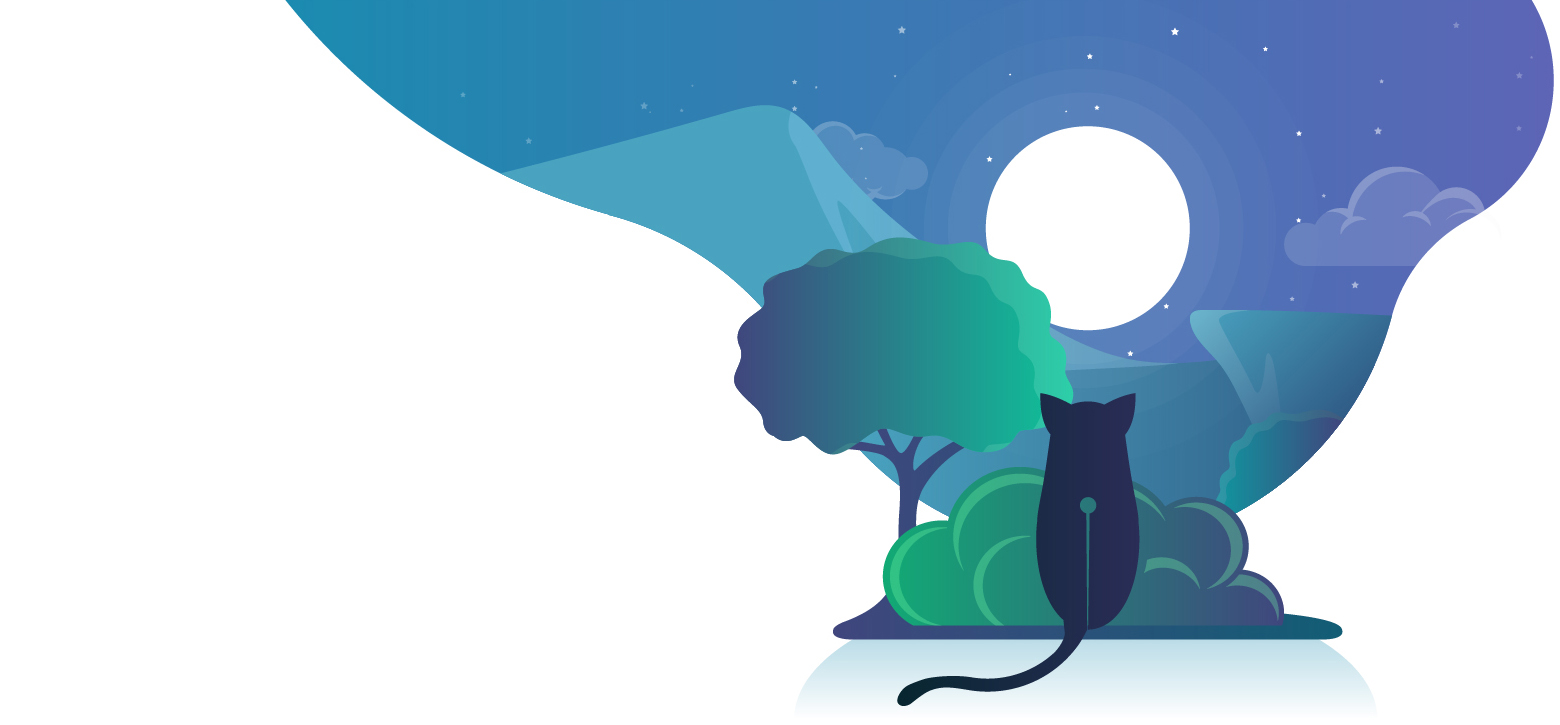
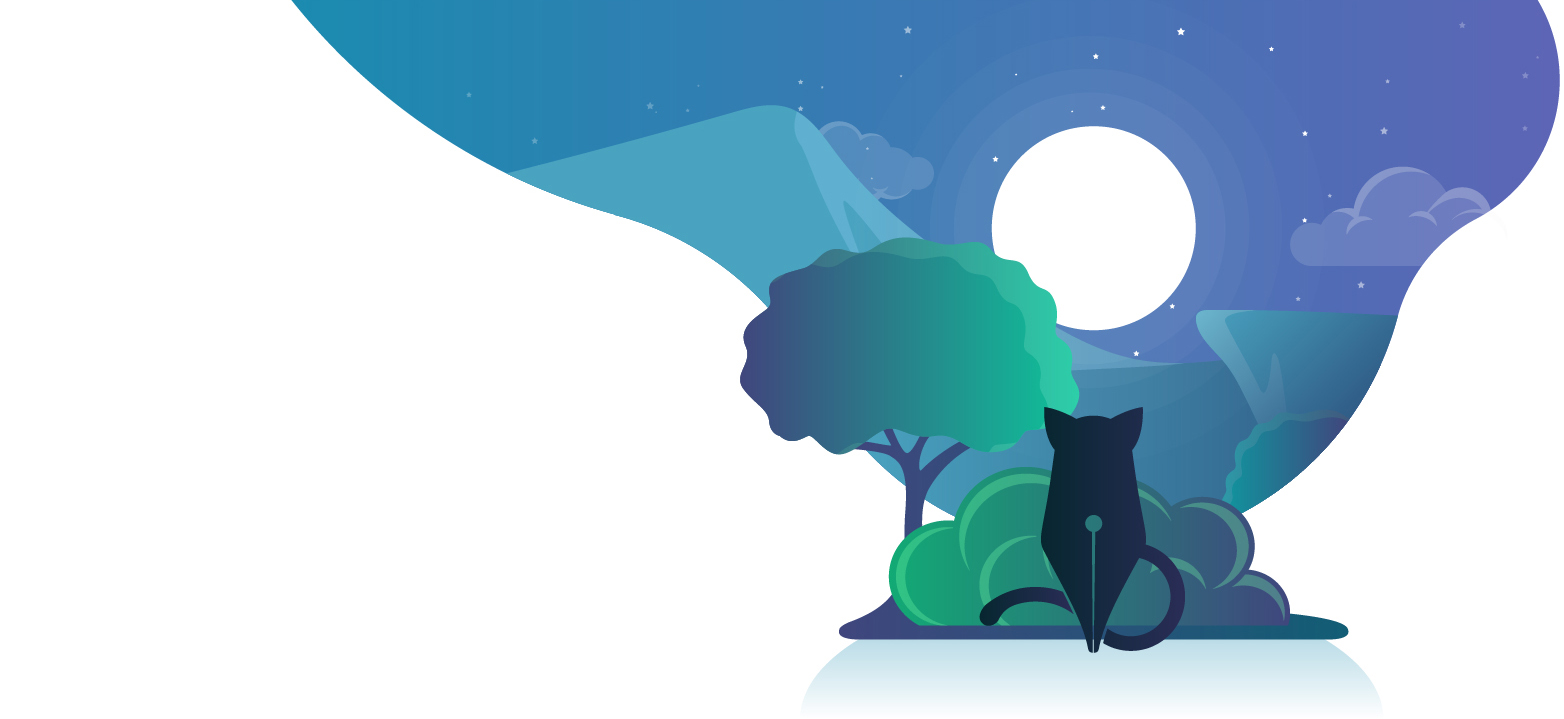
Updated header image. Updated index page. Updated nuxt links. Added active class to navbar and controlling transparent class.

diff --git a/layouts/default.vue b/layouts/default.vue
@@ -1,6 +1,6 @@
 <template>
 <div id="default-layout">
-    <navbar id="navbar" class="-transparent" />
+    <navbar id="navbar" :class="navbarClass" />
     <i-layout>
         <i-layout-content>
             <nuxt />
@@ -15,6 +15,8 @@
 
 #default-layout
     .navbar
+        transition: background 0.3s ease;
+
         .logo.-light
             display: none;
 
@@ -31,6 +33,13 @@
                     &.-dark
                         display: none;
 
+                .items
+                    background: rgba(0, 0, 0, 0.2)
+
+                .nav > .item:hover
+                    background: rgba(0, 0, 0, 0.1)
+
+
             +-breakpoint-up(lg)
                 .brand
                     color: --colors['dark']
@@ -41,18 +50,25 @@
                     &.-dark
                         display: inline-block;
 
+            .nav
+                > .item
+                    color: white
+
+            .hamburger
+                > .bars::before,
+                > .bars,
+                > .bars::after
+                    background-color: --colors['white']
 
 
-
-        .nav
-            > .item
-                color: white
 </style>
 
 <script>
 import Navbar from '@components/Navbar';
 import Layout from "@components/Layout";
 import { IContainer, IColumn, IRow } from '@inkline/inkline';
+
+import {on} from "@inkline/inkline/src/helpers";
 
 export default {
     name: 'Default',
@@ -65,6 +81,22 @@ export default {
         IColumn,
         IRow,
         Navbar
+    },
+    data () {
+        return {
+            navbarClass: {
+                '-transparent': true
+            }
+        }
+    },
+    methods: {
+        onScroll () {
+            this.navbarClass['-transparent'] = (window.pageYOffset || document.documentElement.scrollTop) === 0;
+        }
+    },
+    created () {
+        on(window, 'scroll', this.onScroll);
+        this.onScroll();
     }
 };
 </script>

diff --git a/pages/index.vue b/pages/index.vue
@@ -7,7 +7,7 @@
                     <h2 class="header-subtitle">
                         Inkline is a modern <strong>UI/UX Framework for Vue.js</strong> designed for creating flawless responsive web applications.
                     </h2>
-                    <i-button size="lg" variant="primary" class="_margin-top-2">Get Started</i-button>
+                    <i-button size="lg" variant="primary" class="_margin-top-2" :to="{ name: 'docs-development-getting-started' }">Get Started</i-button>
                 </i-column>
             </i-row>
         </i-header>
@@ -16,7 +16,7 @@
                 <i-column>
                     <i-row>
                         <i-column xs="12">
-                            <site-navigation></site-navigation>
+
                         </i-column>
                     </i-row>
                 </i-column>

diff --git a/components/PageNavigation/script.js b/components/PageNavigation/script.js
@@ -1,4 +1,5 @@
 import { findIndex, findLastIndex, throttle } from 'lodash';
+import { on, off } from "@inkline/inkline/src/helpers";
 
 function wasInViewport (element) {
     if (!element) { return; }
@@ -75,6 +76,9 @@ export default {
         this.update();
         this.$nuxt.$on('viewLoaded', this.update);
 
-        window.addEventListener('scroll', throttle(this.onScroll, 500));
+        on(window, 'scroll', throttle(this.onScroll, 250));
+    },
+    destroyed () {
+        off(window, 'scroll', throttle(this.onScroll, 250));
     }
 };

diff --git a/components/Navbar/template.html b/components/Navbar/template.html
@@ -8,6 +8,7 @@
         <i-nav>
             <i-nav-item :to="{ name: 'index' }">Home</i-nav-item>
             <i-nav-item :to="{ name: 'docs-development-getting-started' }">Documentation</i-nav-item>
+            <i-nav-item href="https://github.com/inkline/inkline" target="_blank"><font-awesome-icon :icon="['fab', 'github']" size="lg" /></i-nav-item>
         </i-nav>
     </i-navbar-items>
 </i-navbar>

diff --git a/nuxt.config.js b/nuxt.config.js
@@ -69,10 +69,17 @@ module.exports = {
     /*
     ** Nuxt.js modules
     */
-    modules: [,
-        // '@nuxtjs/pwa',
+    modules: [
+        '@nuxtjs/pwa',
         'nuxt-babel'
     ],
+
+    /**
+     * Nuxt router link
+     */
+    router: {
+        linkExactActiveClass: '-active nuxt-link-exact-active'
+    },
 
     /*
     ** Build configuration

diff --git a/pages/docs/components/navbar/template.md b/pages/docs/components/navbar/template.md
@@ -7,12 +7,12 @@ Here’s an example of the basic components included in a  `<i-navbar>` that aut
 <i-code-preview title="Navbar Example" link="https://github.com/inkline/inkline/tree/master/src/components/Navbar">
 
 <i-navbar>
-    <i-navbar-brand :to="{ name: 'docs-components-navbar' }">Navbar</i-navbar-brand>
+    <i-navbar-brand :to="{ name: 'index' }">Navbar</i-navbar-brand>
     <i-navbar-items>
         <i-nav>
-            <i-nav-item :to="{ name: 'docs-components-navbar' }">Home</i-nav-item>
-            <i-nav-item :to="{ name: 'docs-components-navbar' }">About</i-nav-item>
-            <i-nav-item :to="{ name: 'docs-components-navbar' }">Contact</i-nav-item>
+            <i-nav-item :to="{ name: 'index' }">Home</i-nav-item>
+            <i-nav-item :to="{ name: 'index' }">About</i-nav-item>
+            <i-nav-item :to="{ name: 'index' }">Contact</i-nav-item>
         </i-nav>
         <i-nav>
             <i-input placeholder="Type something.." class="_margin-right-1" />
@@ -50,34 +50,34 @@ The default size is set to `md`.
 <i-code-preview title="Navbar Sizes" link="https://github.com/inkline/inkline/tree/master/src/components/Navbar">
 
 <i-navbar size="sm" class="_margin-bottom-1">
-    <i-navbar-brand :to="{ name: 'docs-components-navbar' }">Navbar</i-navbar-brand>
+    <i-navbar-brand :to="{ name: 'index' }">Navbar</i-navbar-brand>
     <i-navbar-items>
         <i-nav>
-            <i-nav-item :to="{ name: 'docs-components-navbar' }">Home</i-nav-item>
-            <i-nav-item :to="{ name: 'docs-components-navbar' }">About</i-nav-item>
-            <i-nav-item :to="{ name: 'docs-components-navbar' }">Contact</i-nav-item>
+            <i-nav-item :to="{ name: 'index' }">Home</i-nav-item>
+            <i-nav-item :to="{ name: 'index' }">About</i-nav-item>
+            <i-nav-item :to="{ name: 'index' }">Contact</i-nav-item>
         </i-nav>
     </i-navbar-items>
 </i-navbar>
 
 <i-navbar size="md" class="_margin-bottom-1">
-    <i-navbar-brand :to="{ name: 'docs-components-navbar' }">Navbar</i-navbar-brand>
+    <i-navbar-brand :to="{ name: 'index' }">Navbar</i-navbar-brand>
     <i-navbar-items>
         <i-nav>
-            <i-nav-item :to="{ name: 'docs-components-navbar' }">Home</i-nav-item>
-            <i-nav-item :to="{ name: 'docs-components-navbar' }">About</i-nav-item>
-            <i-nav-item :to="{ name: 'docs-components-navbar' }">Contact</i-nav-item>
+            <i-nav-item :to="{ name: 'index' }">Home</i-nav-item>
+            <i-nav-item :to="{ name: 'index' }">About</i-nav-item>
+            <i-nav-item :to="{ name: 'index' }">Contact</i-nav-item>
         </i-nav>
     </i-navbar-items>
 </i-navbar>
 
 <i-navbar size="lg">
-    <i-navbar-brand :to="{ name: 'docs-components-navbar' }">Navbar</i-navbar-brand>
+    <i-navbar-brand :to="{ name: 'index' }">Navbar</i-navbar-brand>
     <i-navbar-items>
         <i-nav>
-            <i-nav-item :to="{ name: 'docs-components-navbar' }">Home</i-nav-item>
-            <i-nav-item :to="{ name: 'docs-components-navbar' }">About</i-nav-item>
-            <i-nav-item :to="{ name: 'docs-components-navbar' }">Contact</i-nav-item>
+            <i-nav-item :to="{ name: 'index' }">Home</i-nav-item>
+            <i-nav-item :to="{ name: 'index' }">About</i-nav-item>
+            <i-nav-item :to="{ name: 'index' }">Contact</i-nav-item>
         </i-nav>
     </i-navbar-items>
 </i-navbar>
@@ -131,23 +131,23 @@ Inkline includes two predefined navbar styles. You can set the style of a `<i-na
 <i-code-preview title="Navbar Variants" link="https://github.com/inkline/inkline/tree/master/src/components/Navbar">
 
 <i-navbar variant="light" class="_margin-bottom-1">
-    <i-navbar-brand :to="{ name: 'docs-components-navbar' }">Navbar</i-navbar-brand>
+    <i-navbar-brand :to="{ name: 'index' }">Navbar</i-navbar-brand>
     <i-navbar-items>
         <i-nav>
-            <i-nav-item :to="{ name: 'docs-components-navbar' }">Home</i-nav-item>
-            <i-nav-item :to="{ name: 'docs-components-navbar' }">About</i-nav-item>
-            <i-nav-item :to="{ name: 'docs-components-navbar' }">Contact</i-nav-item>
+            <i-nav-item :to="{ name: 'index' }">Home</i-nav-item>
+            <i-nav-item :to="{ name: 'index' }">About</i-nav-item>
+            <i-nav-item :to="{ name: 'index' }">Contact</i-nav-item>
         </i-nav>
     </i-navbar-items>
 </i-navbar>
 
 <i-navbar variant="dark">
-    <i-navbar-brand :to="{ name: 'docs-components-navbar' }">Navbar</i-navbar-brand>
+    <i-navbar-brand :to="{ name: 'index' }">Navbar</i-navbar-brand>
     <i-navbar-items>
         <i-nav>
-            <i-nav-item :to="{ name: 'docs-components-navbar' }">Home</i-nav-item>
-            <i-nav-item :to="{ name: 'docs-components-navbar' }">About</i-nav-item>
-            <i-nav-item :to="{ name: 'docs-components-navbar' }">Contact</i-nav-item>
+            <i-nav-item :to="{ name: 'index' }">Home</i-nav-item>
+            <i-nav-item :to="{ name: 'index' }">About</i-nav-item>
+            <i-nav-item :to="{ name: 'index' }">Contact</i-nav-item>
         </i-nav>
     </i-navbar-items>
 </i-navbar>
@@ -188,12 +188,12 @@ You can use an `<i-dropdown>` component inside the `<i-navbar-items>` or `<i-nav
 <i-code-preview title="Navbar Dropdown" link="https://github.com/inkline/inkline/tree/master/src/components/Navbar">
 
 <i-navbar>
-    <i-navbar-brand :to="{ name: 'docs-components-navbar' }">Navbar</i-navbar-brand>
+    <i-navbar-brand :to="{ name: 'index' }">Navbar</i-navbar-brand>
     <i-navbar-items>
         <i-nav>
-            <i-nav-item :to="{ name: 'docs-components-navbar' }">Home</i-nav-item>
-            <i-nav-item :to="{ name: 'docs-components-navbar' }">About</i-nav-item>
-            <i-nav-item :to="{ name: 'docs-components-navbar' }">Contact</i-nav-item>
+            <i-nav-item :to="{ name: 'index' }">Home</i-nav-item>
+            <i-nav-item :to="{ name: 'index' }">About</i-nav-item>
+            <i-nav-item :to="{ name: 'index' }">Contact</i-nav-item>
         </i-nav>
         <i-nav>
             <i-dropdown placement="bottom-end">
@@ -246,35 +246,35 @@ You can position the `<i-nav>` component to the `start`, `end`, or `center` of t
 <i-code-preview title="Navbar Nav Placement" link="https://github.com/inkline/inkline/tree/master/src/components/Navbar">
 
 <i-navbar class="_margin-bottom-1">
-    <i-navbar-brand :to="{ name: 'docs-components-navbar' }">Navbar</i-navbar-brand>
+    <i-navbar-brand :to="{ name: 'index' }">Navbar</i-navbar-brand>
     <i-navbar-items class="_justify-content-start">
         <i-nav>
-            <i-nav-item :to="{ name: 'docs-components-navbar' }">Home</i-nav-item>
-            <i-nav-item :to="{ name: 'docs-components-navbar' }">About</i-nav-item>
-            <i-nav-item :to="{ name: 'docs-components-navbar' }">Contact</i-nav-item>
+            <i-nav-item :to="{ name: 'index' }">Home</i-nav-item>
+            <i-nav-item :to="{ name: 'index' }">About</i-nav-item>
+            <i-nav-item :to="{ name: 'index' }">Contact</i-nav-item>
         </i-nav>
     </i-navbar-items>
 </i-navbar>
 
 
 <i-navbar class="_margin-bottom-1">
-    <i-navbar-brand :to="{ name: 'docs-components-navbar' }">Navbar</i-navbar-brand>
+    <i-navbar-brand :to="{ name: 'index' }">Navbar</i-navbar-brand>
     <i-navbar-items class="_justify-content-center">
         <i-nav>
-            <i-nav-item :to="{ name: 'docs-components-navbar' }">Home</i-nav-item>
-            <i-nav-item :to="{ name: 'docs-components-navbar' }">About</i-nav-item>
-            <i-nav-item :to="{ name: 'docs-components-navbar' }">Contact</i-nav-item>
+            <i-nav-item :to="{ name: 'index' }">Home</i-nav-item>
+            <i-nav-item :to="{ name: 'index' }">About</i-nav-item>
+            <i-nav-item :to="{ name: 'index' }">Contact</i-nav-item>
         </i-nav>
     </i-navbar-items>
 </i-navbar>
 
 <i-navbar>
-    <i-navbar-brand :to="{ name: 'docs-components-navbar' }">Navbar</i-navbar-brand>
+    <i-navbar-brand :to="{ name: 'index' }">Navbar</i-navbar-brand>
     <i-navbar-items class="_justify-content-end">
         <i-nav>
-            <i-nav-item :to="{ name: 'docs-components-navbar' }">Home</i-nav-item>
-            <i-nav-item :to="{ name: 'docs-components-navbar' }">About</i-nav-item>
-            <i-nav-item :to="{ name: 'docs-components-navbar' }">Contact</i-nav-item>
+            <i-nav-item :to="{ name: 'index' }">Home</i-nav-item>
+            <i-nav-item :to="{ name: 'index' }">About</i-nav-item>
+            <i-nav-item :to="{ name: 'index' }">Contact</i-nav-item>
         </i-nav>
     </i-navbar-items>
 </i-navbar>
